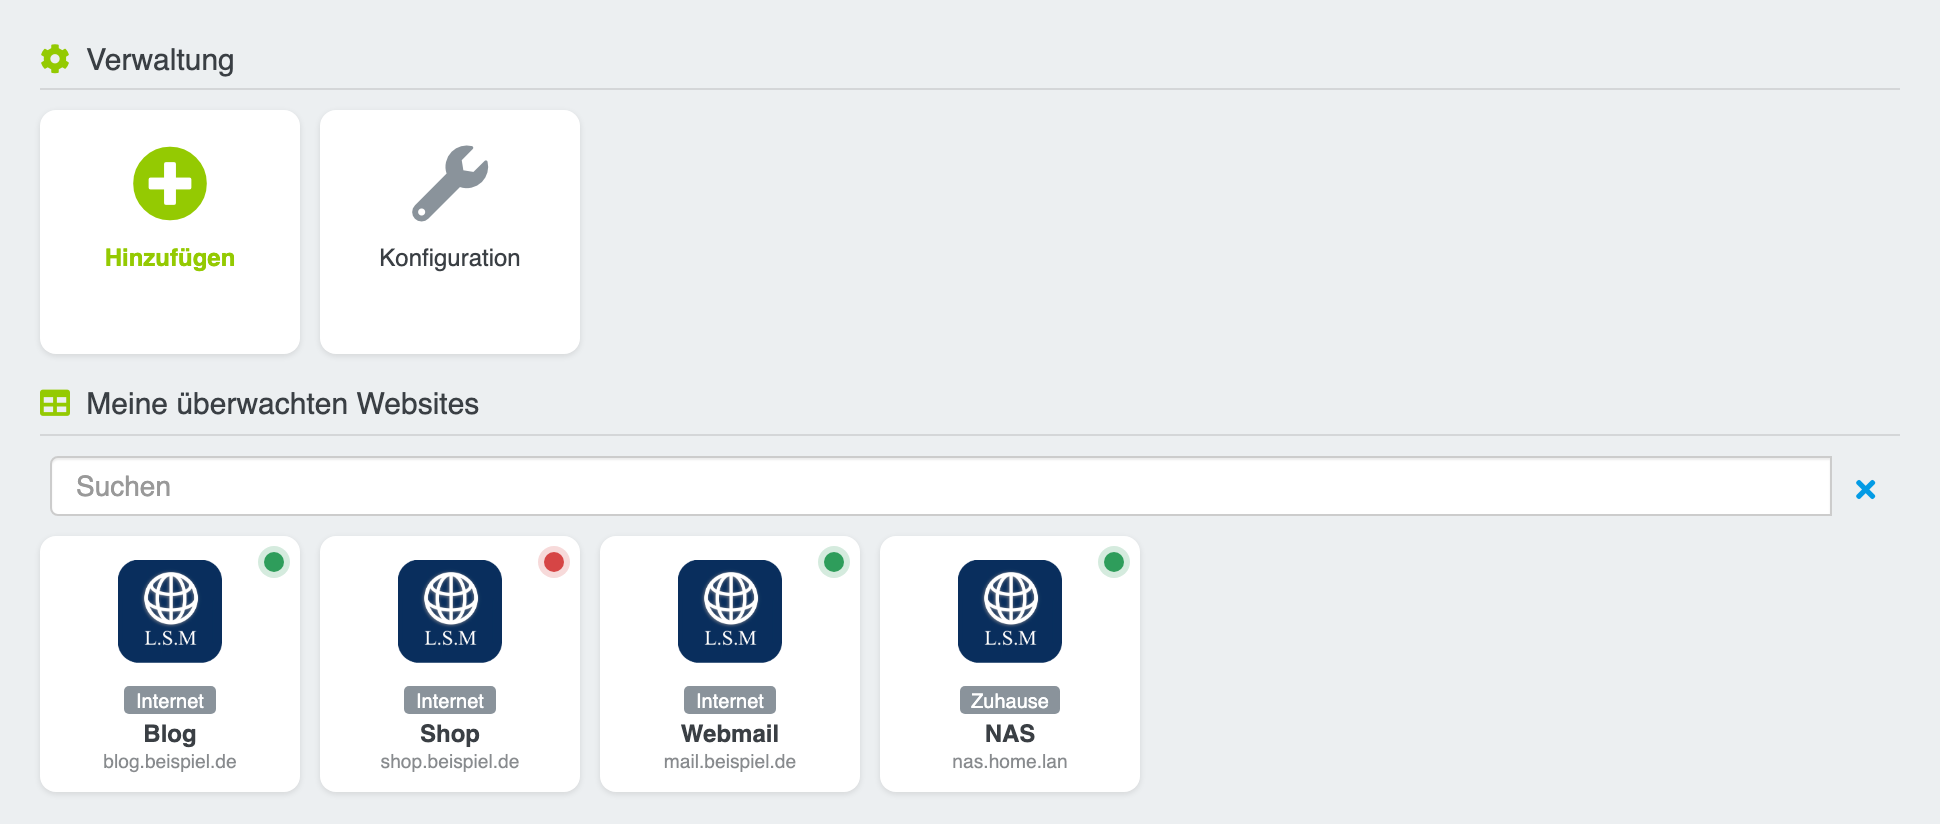
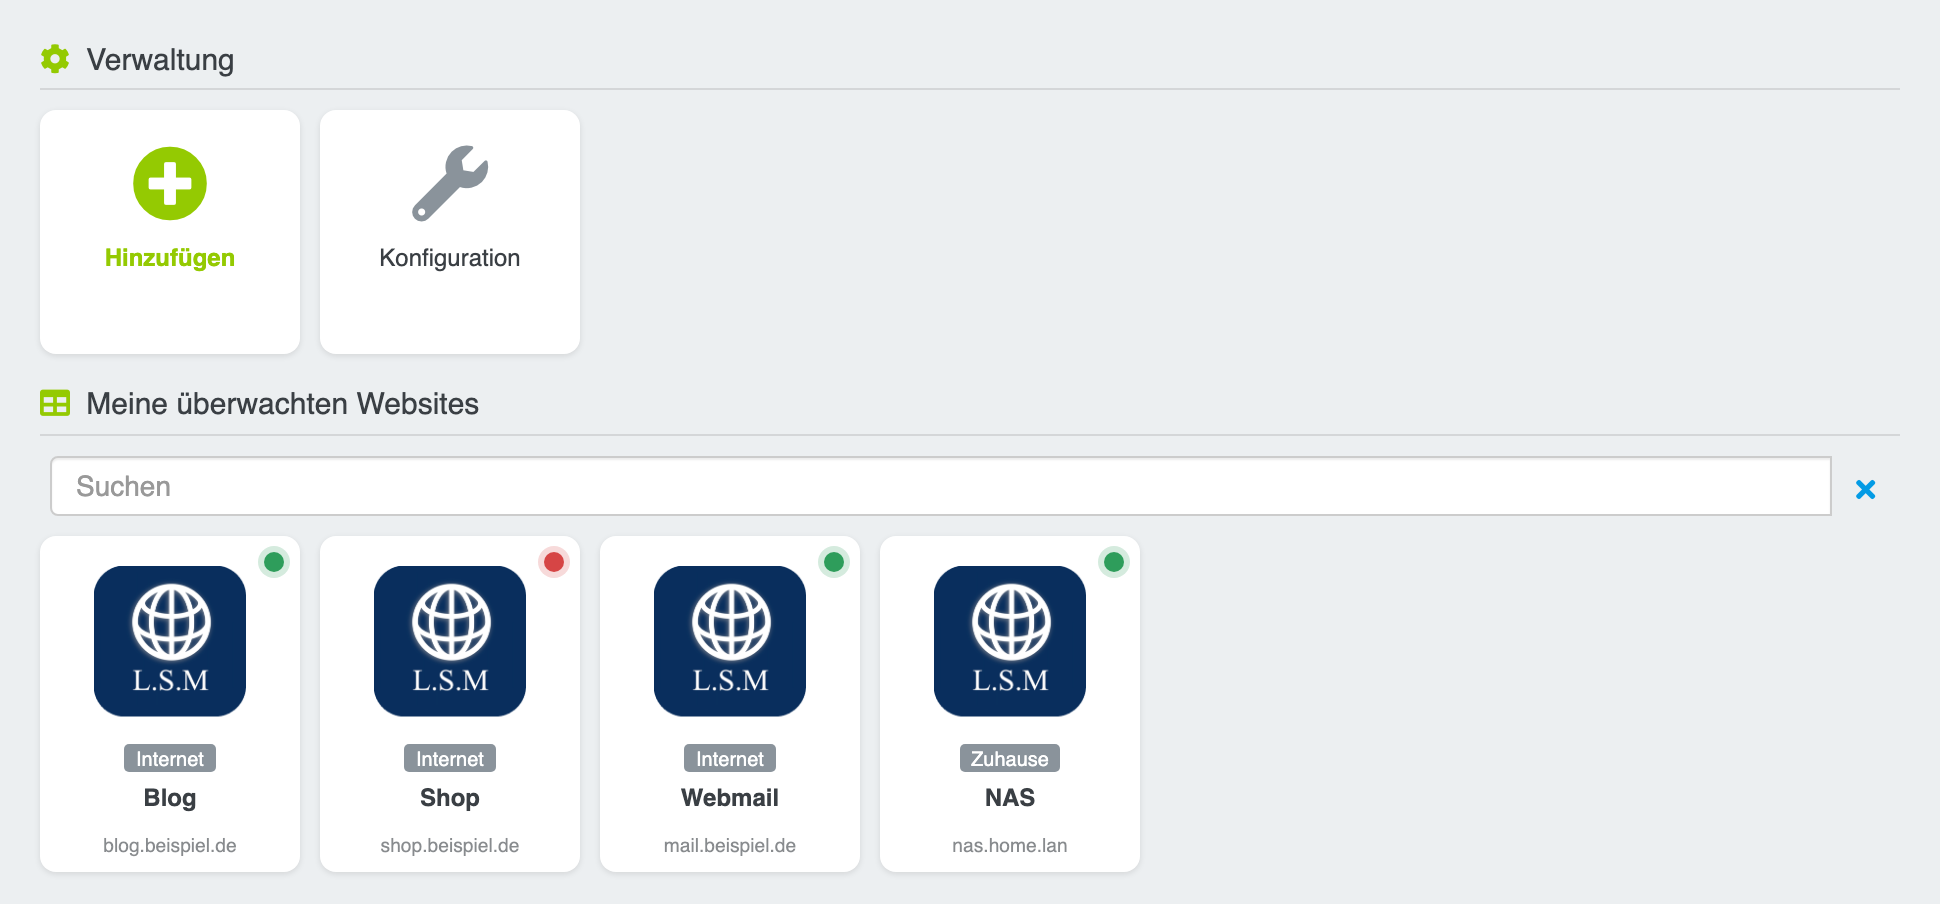
Ajout de styles pour centrer le nom de la carte et ajustement de la largeur maximale de l'hôte

diff --git a/desktop/css/lite_site_monitoring.css b/desktop/css/lite_site_monitoring.css
@@ -20,8 +20,15 @@
   background: #d64545;
   box-shadow: 0 0 0 3px rgba(214, 69, 69, .2);
 }
+/* Le core limite le nom à 130px sans le centrer : la carte s'élargit avec le libellé de l'objet */
+div.eqLogicDisplayCard.lsm-card > span.name strong {
+  margin-left: auto;
+  margin-right: auto;
+}
 .lsm-card .lsm-card-host {
   display: block;
+  max-width: 150px;
+  margin: 4px auto 0;
   font-size: .8em;
   opacity: .6;
   overflow: hidden;
